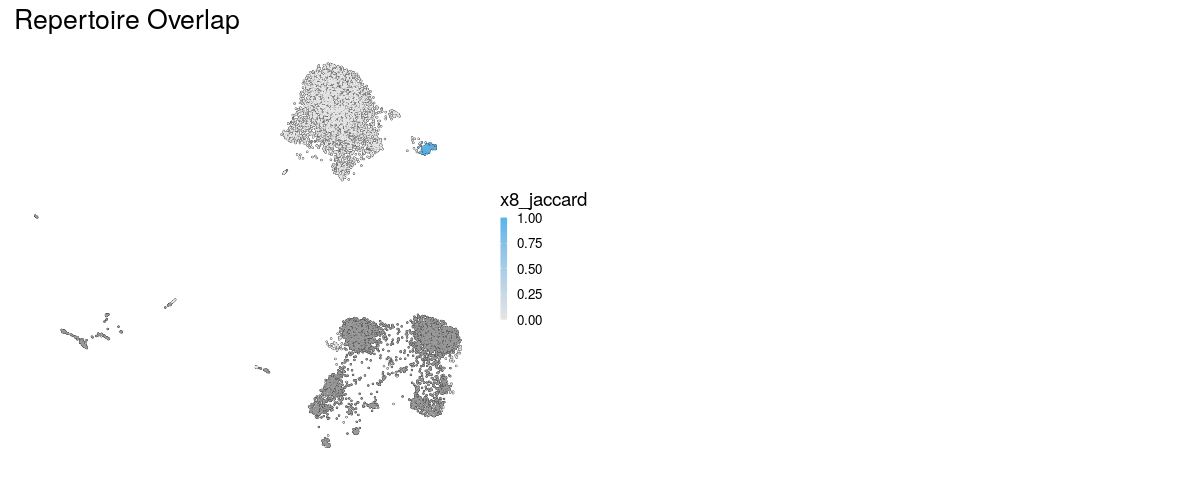
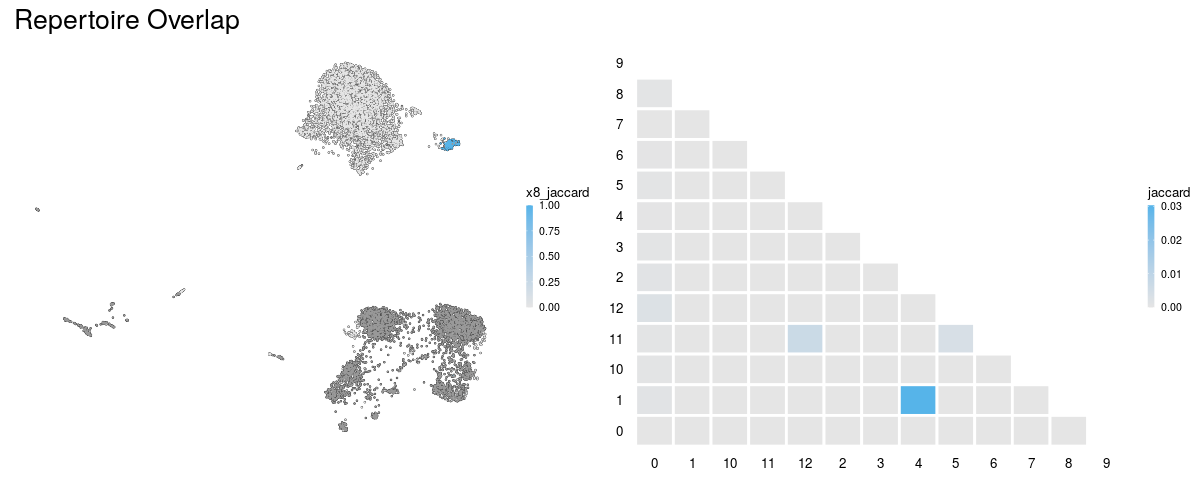
updated vignette

diff --git a/README.md b/README.md
@@ -98,7 +98,7 @@ Filter to only include cells with paired light and heavy chains.
 ``` r
 so_filt <- filter_vdj(
   sobj_in = so_vdj,                                              # Seurat object
-  filt    = "IGH" %in% chain && any(c("IGK", "IGL") %in% chain)  # Expression to use for filtering
+  filt    = "IGH" %in% chain && any(c("IGK", "IGL") %in% chain)  # Expression for filtering
 )
 
 so_filt@meta.data %>%
@@ -133,8 +133,8 @@ so_vdj <- filter_vdj(
   sobj_in = so_vdj,                                               # Seurat object
   filt    = "IGH" %in% chain && any(c("IGK", "IGL") %in% chain),  # Condition to use for filtering
   new_col = "Paired",                                             # Name of new column
-  true    = "paired",                                             # Value to use when condition evaluates to TRUE
-  false   = "unpaired"                                            # Value to use when condition evaluates to FALSE
+  true    = "paired",                                             # Value when condition is TRUE
+  false   = "unpaired"                                            # Value when condition is FALSE
 )
 
 vdj_cols <- c(vdj_cols, "Paired")
@@ -173,8 +173,8 @@ so_vdj <- filter_vdj(
   sobj_in = so_vdj,                                # Seurat object
   filt    = length(unique(chain)) < 4,             # Condition to use for filtering
   new_col = "uniq_chains",                         # Name of new column
-  true    = str_c(unique(chain), collapse = "_"),  # Value to use when condition evaluates to TRUE
-  false   = "other"                                # Value to use when condition evaluates to FALSE
+  true    = str_c(unique(chain), collapse = "_"),  # Value when condition is TRUE
+  false   = "other"                                # Value when condition is FALSE
 )
 
 vdj_cols <- c(vdj_cols, "uniq_chains")
@@ -213,8 +213,8 @@ so_vdj <- filter_vdj(
   sobj_in = so_vdj,                                   # Seurat object
   filt    = "CQQSNSWPYTF" %in% cdr3[chain == "IGK"],  # Condition to use for filtering
   new_col = "IGK_seq",                                # Name of new column
-  true    = "CQQSNSWPYTF",                            # Value to use when condition evaluates to TRUE
-  false   = "other"                                   # Value to use when condition evaluates to FALSE
+  true    = "CQQSNSWPYTF",                            # Value when condition is TRUE
+  false   = "other"                                   # Value when condition is FALSE
 )
 
 vdj_cols <- c(vdj_cols, "uniq_chains")
@@ -269,7 +269,8 @@ so_vdj <- calc_diversity(
 Calculate repertoire overlap with `calc_jaccard`. A reference cell label
 can be given to calculate Jaccard index for the reference vs all other
 cell groups. If no reference is given overlap is calculated for all
-combinations of cell labels.
+combinations of cell labels. Using the `return_seurat` argument,
+`calc_jaccard` can also output a matrix for plotting.
 
 ``` r
 so_vdj <- calc_jaccard(
